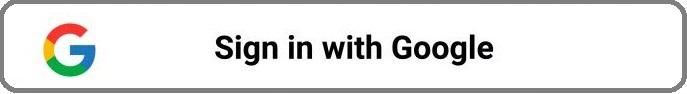
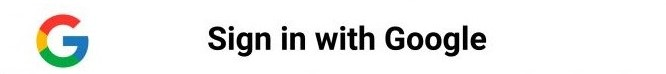
Boton de google responsive

Changed region(s): [[0.0, 0.0, 1.0, 1.0], [0.3003, 0.3243, 0.7508, 0.7838]]

diff --git a/styles.css b/styles.css
@@ -565,7 +565,10 @@ header h1 {
     .ct-chart {
         height: 50px;
     }
-
+    #buttonLoginGoogle {
+        width: 300px;
+        height: 40px;
+    }
     #nextButton {
         margin-left: 35%;
     }
@@ -738,7 +741,10 @@ header h1 {
     #profilePictureContainer {
         display: none;
     }
-
+    #buttonLoginGoogle {
+        width: 200px;
+        height: 30px;
+    }
     #loggedInContainer {
         display: flex;
         flex-direction: row;
@@ -848,7 +854,11 @@ header h1 {
     #statsContainer {
         height: 70%;
     }
-
+    #buttonLoginGoogle {
+        width: 150px;
+        height: 20px;
+        margin: 0;
+    }
     footer {
         padding: 10px;
         max-width: 95%;
